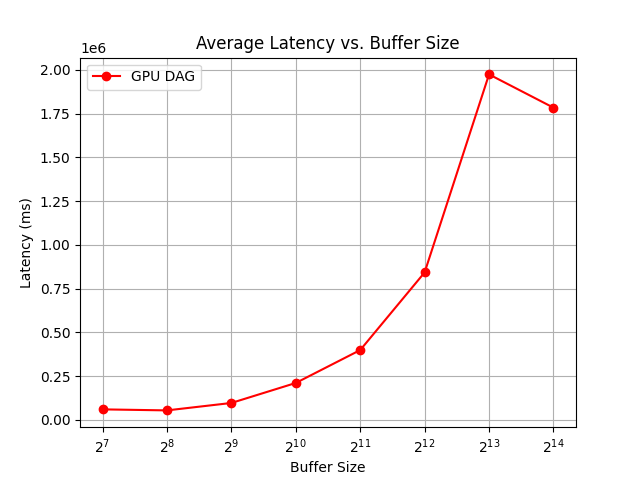
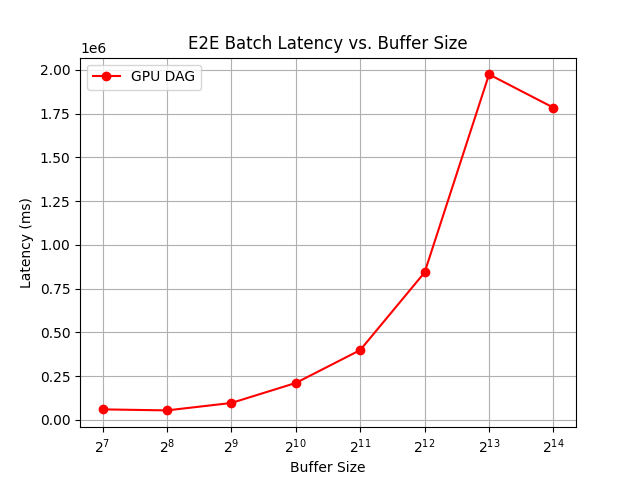
minor revision in plots

Changed region(s): [[0.2812, 0.0625, 0.75, 0.125]]

diff --git a/plots/make_plots.py b/plots/make_plots.py
@@ -31,7 +31,7 @@ if __name__ == '__main__':
   plt.plot(bufs, gpu_dag, label='GPU DAG', marker='o', linestyle='-', color='red')
   # plt.plot(buf_szs, hybrid_dag, label='Hybrid DAG', marker='o', linestyle='-', color='purple')
   
-  plt.title('Average Latency vs. Buffer Size')
+  plt.title('E2E Batch Latency vs. Buffer Size')
   plt.xlabel('Buffer Size')
   plt.xscale('log', base=2)
   plt.ylabel('Latency (ms)')
@@ -57,7 +57,7 @@ if __name__ == '__main__':
   plt.plot(mat_szs, gpu_dag, label='GPU DAG', marker='o', linestyle='-', color='red')
   plt.plot(mat_szs[:-2], hybrid_dag, label='Hybrid DAG', marker='o', linestyle='-', color='purple')
   
-  plt.title('Average Latency vs. Matrix Size')
+  plt.title('E2E Batch Latency vs. Matrix Size')
   plt.xlabel('Matrix Size')
   plt.xscale('log', base=2)
   plt.ylabel('Latency (ms)')
@@ -83,7 +83,7 @@ if __name__ == '__main__':
   plt.plot(num_state_matrices, gpu_dag, label='GPU DAG', marker='o', linestyle='-', color='red')
   plt.plot(num_state_matrices, hybrid_dag, label='Hybrid DAG', marker='o', linestyle='-', color='purple')
   
-  plt.title('Average Latency vs. Number of State Matrices')
+  plt.title('E2E Batch Latency vs. Number of State Matrices')
   plt.xlabel('Number of State Matrices')
   plt.xscale('log', base=2)
   plt.ylabel('Latency (ms)')
